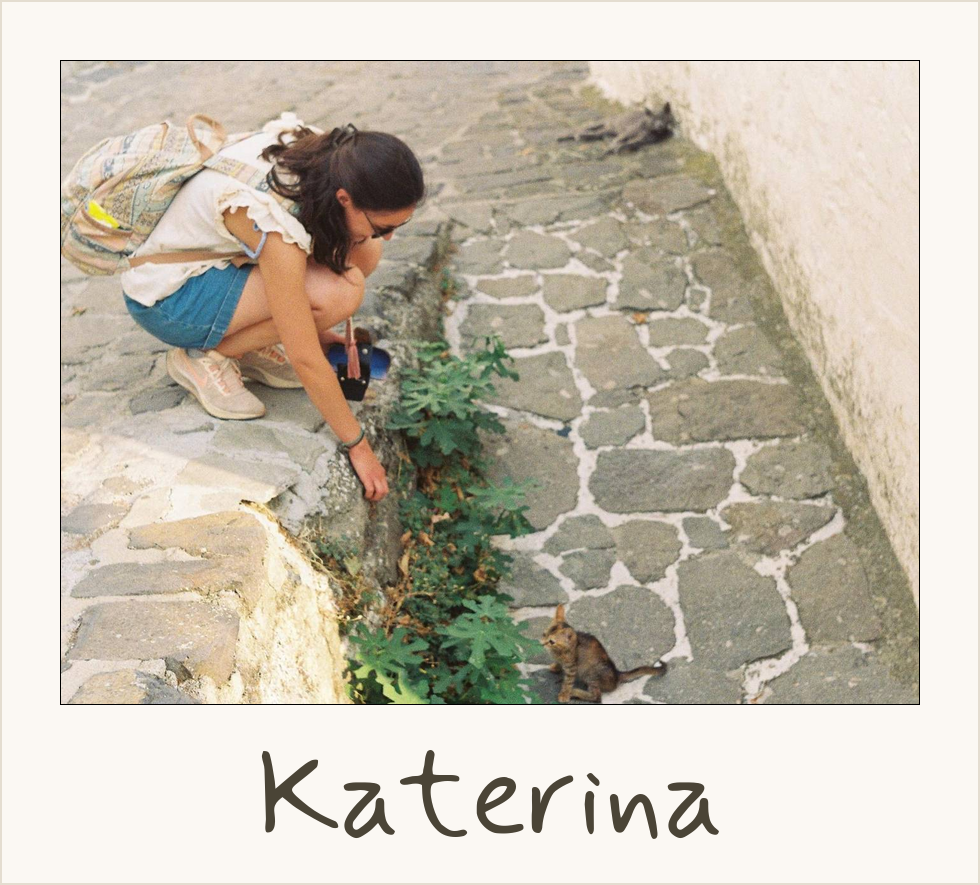
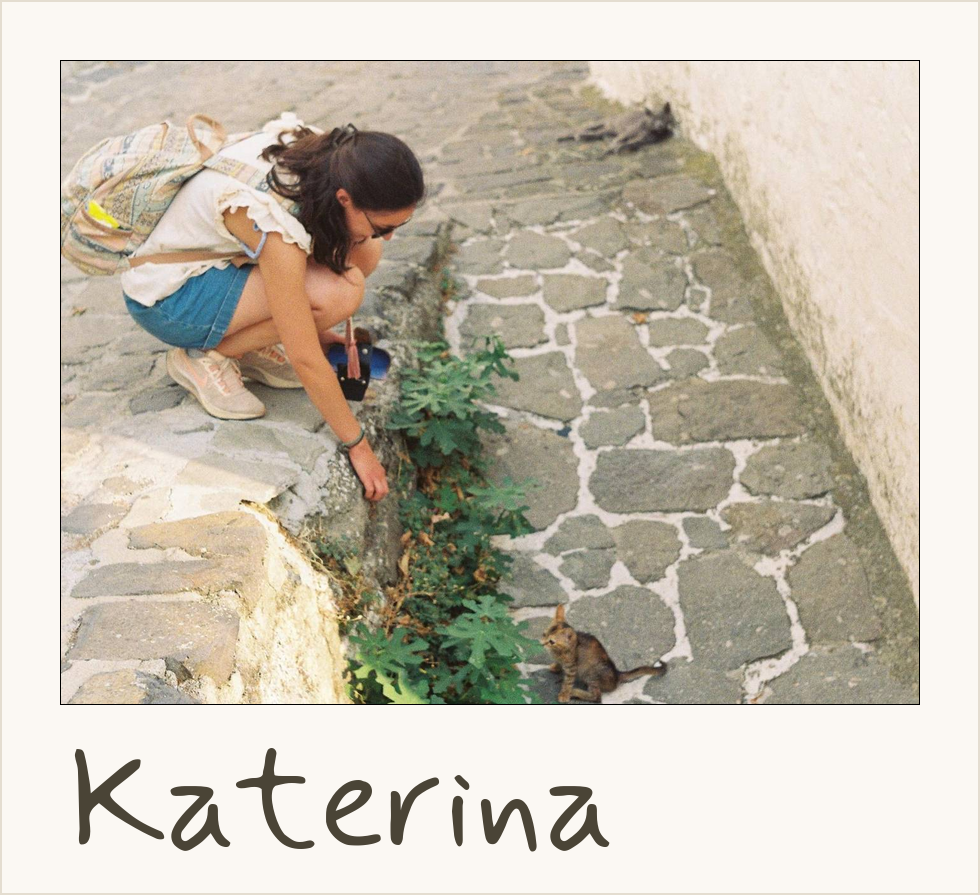
Team polaroids: left-aligned names, bigger, click to preview; pitch bios on the cards

Changed region(s): [[0.0612, 0.122, 0.949, 0.9458], [0.5816, 0.122, 0.6735, 0.1831], [0.398, 0.1525, 0.4286, 0.1831]]

diff --git a/index.html b/index.html
@@ -367,10 +367,23 @@ button.btn-quiet{background:none}
 .member-link{display:inline-flex;align-items:center;gap:6px;margin-top:6px;font-size:14px;font-weight:700;color:var(--ink-gold)}
 .member-link svg{width:15px;height:15px;flex:none}
 /* Cut-out portraits from lifepulse.gr/team, on the brand gold, cropped head and shoulders. */
-/* Real photos of the two of us, each with a street cat, dropped in a polaroid like Luna's. */
-.avatar{flex:none;width:112px;height:auto;border-radius:3px;box-shadow:0 10px 20px rgba(12,13,17,.28);background:#fbf8f3}
+/* Real photos of the two of us, each with a street cat, dropped in a polaroid like Luna's. Click to enlarge. */
+.avatar-btn{flex:none;padding:0;border:0;background:none;line-height:0;cursor:zoom-in;border-radius:4px}
+.avatar-btn:focus-visible{outline:3px solid var(--action-primary);outline-offset:4px}
+.avatar{display:block;width:132px;height:auto;border-radius:3px;box-shadow:0 10px 20px rgba(12,13,17,.28);background:#fbf8f3;transition:transform .15s ease,box-shadow .15s ease}
 .member:nth-child(1) .avatar{transform:rotate(-4deg)}
 .member:nth-child(2) .avatar{transform:rotate(3deg)}
+.avatar-btn:hover .avatar{transform:scale(1.04) rotate(0);box-shadow:0 16px 30px rgba(12,13,17,.34)}
+.member .bio{font-size:15px;line-height:21px;margin-top:4px;max-width:34ch}
+/* The photo preview overlay. */
+.lightbox{position:fixed;inset:0;z-index:60;display:none;align-items:center;justify-content:center;padding:24px;
+  background:rgba(8,9,12,.82);-webkit-backdrop-filter:blur(4px);backdrop-filter:blur(4px)}
+.lightbox[open]{display:flex}
+.lightbox img{max-width:min(440px,92vw);max-height:86vh;height:auto;border-radius:6px;box-shadow:0 30px 70px rgba(0,0,0,.5)}
+.lightbox-close{position:absolute;top:18px;right:18px;width:44px;height:44px;border:0;border-radius:50%;
+  background:rgba(245,240,232,.14);color:#f5f0e8;font:400 26px/1 var(--body);cursor:pointer}
+.lightbox-close:hover{background:rgba(245,240,232,.26)}
+.lightbox-close:focus-visible{outline:3px solid var(--action-primary);outline-offset:2px}
 
 /* Contact form */
 .form{width:100%;max-width:520px;display:grid;gap:14px;text-align:left;margin-top:8px}
@@ -905,11 +918,16 @@ footer{border-top:1px solid var(--border-default);padding-block:36px;font-size:1
       <h2 id="team-title">The people behind CatsMe.</h2>
     </div>
     <div class="team-grid">
-      <article class="member"><img class="avatar" src="assets/team/panos-polaroid.png" alt="Panos holding up a rescued kitten" width="980" height="1100" loading="lazy"><div><h3>Panos Karadaglis</h3><p class="muted">Product, design &amp; engineering</p><a class="member-link" href="https://www.linkedin.com/in/panagiotis-karadaglis/" target="_blank" rel="noopener"><svg viewBox="-1.5 -1.5 27 27" aria-hidden="true"><g fill="none" stroke="currentColor" stroke-width="3" stroke-linecap="round" stroke-linejoin="round"><path d="M10 13a5 5 0 0 0 7.54.54l3-3a5 5 0 0 0-7.07-7.07l-1.72 1.71"/><path d="M14 11a5 5 0 0 0-7.54-.54l-3 3a5 5 0 0 0 7.07 7.07l1.71-1.71"/></g></svg>LinkedIn</a></div></article>
-      <article class="member"><img class="avatar" src="assets/team/katerina-polaroid.png" alt="Katerina meeting a street cat" width="980" height="885" loading="lazy"><div><h3>Katerina Gianniki</h3><p class="muted">Graphic design</p><a class="member-link" href="https://www.instagram.com/katgiannik/" target="_blank" rel="noopener"><svg viewBox="-1.5 -1.5 27 27" aria-hidden="true"><g fill="none" stroke="currentColor" stroke-width="3" stroke-linecap="round" stroke-linejoin="round"><path d="M10 13a5 5 0 0 0 7.54.54l3-3a5 5 0 0 0-7.07-7.07l-1.72 1.71"/><path d="M14 11a5 5 0 0 0-7.54-.54l-3 3a5 5 0 0 0 7.07 7.07l1.71-1.71"/></g></svg>Instagram</a></div></article>
+      <article class="member"><button type="button" class="avatar-btn" data-full="assets/team/panos-polaroid.png" aria-label="See Panos’s photo larger"><img class="avatar" src="assets/team/panos-polaroid.png" alt="Panos holding up a rescued kitten" width="980" height="1110" loading="lazy"></button><div><h3>Panos Karadaglis</h3><p class="muted">Product designer</p><p class="muted bio">3+ years of experience in UI/UX design and product development.</p><a class="member-link" href="https://www.linkedin.com/in/panagiotis-karadaglis/" target="_blank" rel="noopener"><svg viewBox="-1.5 -1.5 27 27" aria-hidden="true"><g fill="none" stroke="currentColor" stroke-width="3" stroke-linecap="round" stroke-linejoin="round"><path d="M10 13a5 5 0 0 0 7.54.54l3-3a5 5 0 0 0-7.07-7.07l-1.72 1.71"/><path d="M14 11a5 5 0 0 0-7.54-.54l-3 3a5 5 0 0 0 7.07 7.07l1.71-1.71"/></g></svg>LinkedIn</a></div></article>
+      <article class="member"><button type="button" class="avatar-btn" data-full="assets/team/katerina-polaroid.png" aria-label="See Katerina’s photo larger"><img class="avatar" src="assets/team/katerina-polaroid.png" alt="Katerina meeting a street cat" width="980" height="895" loading="lazy"></button><div><h3>Katerina Gianniki</h3><p class="muted">Graphic designer</p><p class="muted bio">2+ years of experience in visual identities and layouts.</p><a class="member-link" href="https://www.instagram.com/katgiannik/" target="_blank" rel="noopener"><svg viewBox="-1.5 -1.5 27 27" aria-hidden="true"><g fill="none" stroke="currentColor" stroke-width="3" stroke-linecap="round" stroke-linejoin="round"><path d="M10 13a5 5 0 0 0 7.54.54l3-3a5 5 0 0 0-7.07-7.07l-1.72 1.71"/><path d="M14 11a5 5 0 0 0-7.54-.54l-3 3a5 5 0 0 0 7.07 7.07l1.71-1.71"/></g></svg>Instagram</a></div></article>
     </div>
   </div>
 </section>
+
+<div class="lightbox" id="lightbox" role="dialog" aria-modal="true" aria-label="Photo preview">
+  <button class="lightbox-close" type="button" id="lightbox-close" aria-label="Close preview">×</button>
+  <img id="lightbox-img" alt="">
+</div>
 
 <!-- ================= CONTACT ================= -->
 <section id="contact" class="final" aria-labelledby="join-title">
@@ -1351,6 +1369,22 @@ footer{border-top:1px solid var(--border-default);padding-block:36px;font-size:1
   document.getElementById('send-another').addEventListener('click',function(){
     sent.hidden=true; form.hidden=false; say(''); form.elements.namedItem('name').focus();
   });
+})();
+</script>
+<script>
+/* Click a team polaroid to see it larger. */
+(function(){
+  var lb=document.getElementById('lightbox'), img=document.getElementById('lightbox-img');
+  if(!lb) return;
+  var opener=null;
+  function open(src,alt,btn){ img.src=src; img.alt=alt||''; opener=btn; lb.setAttribute('open',''); document.body.style.overflow='hidden'; document.getElementById('lightbox-close').focus(); }
+  function close(){ lb.removeAttribute('open'); img.removeAttribute('src'); document.body.style.overflow=''; if(opener) opener.focus(); }
+  document.querySelectorAll('.avatar-btn').forEach(function(b){
+    b.addEventListener('click',function(){ var im=b.querySelector('img'); open(b.getAttribute('data-full'), im&&im.alt, b); });
+  });
+  document.getElementById('lightbox-close').addEventListener('click',close);
+  lb.addEventListener('click',function(e){ if(e.target===lb) close(); });
+  document.addEventListener('keydown',function(e){ if(e.key==='Escape'&&lb.hasAttribute('open')) close(); });
 })();
 </script>
 </body>
